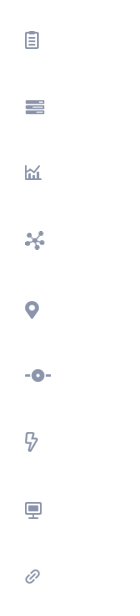
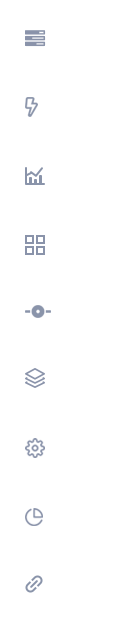
- 대메뉴 아이콘 class명 및 아이콘 이미지 변경

diff --git a/css/layout.css b/css/layout.css
@@ -309,24 +309,44 @@ html{height: 100%; background: #f3f3f3; overflow: auto;  overflow-y: scroll;}
 .gnb-menu > li > a:hover::before, .gnb-menu > li > a.on::before{display: inline-block; position: absolute; left:0; top:0; z-index: 1; content: ''; width:4px; height:100%; background-color: #00bfff; }
 .gnb-menu > li > a.on .ico-bul{background-position: -95px -25px;}
 .gnb-menu > li > a.on .ico-arr{background-position: -83px -100px;}
-.gnb-menu > li > a .ico-bul.ico1{ background-position: -25px -31px;}
-.gnb-menu > li > a:hover .ico-bul.ico1, .gnb-menu > li > a.on .ico-bul.ico1{ background-position: -89px -31px;}
-.gnb-menu > li > a .ico-bul.ico2{position: absolute; left:19px; top:22px; background-position: -25px -100px;}
-.gnb-menu > li > a:hover .ico-bul.ico2, .gnb-menu > li > a.on .ico-bul.ico2{ background-position: -89px -100px;}
-.gnb-menu > li > a .ico-bul.ico3{ background-position: -25px -165px;}
-.gnb-menu > li > a:hover .ico-bul.ico3, .gnb-menu > li > a.on .ico-bul.ico3{ background-position: -89px -165px;}
-.gnb-menu > li > a .ico-bul.ico4{ background-position: -25px -231px;}
-.gnb-menu > li > a:hover .ico-bul.ico4, .gnb-menu > li > a.on .ico-bul.ico4{ background-position: -89px -231px;}
-.gnb-menu > li > a .ico-bul.ico5{ background-position: -25px -301px;}
-.gnb-menu > li > a:hover .ico-bul.ico5, .gnb-menu > li > a.on .ico-bul.ico5{ background-position: -89px -301px;}
-.gnb-menu > li > a .ico-bul.ico6{position: absolute; left:13px; top:22px; background-position: -25px -369px;}
-.gnb-menu > li > a:hover .ico-bul.ico6, .gnb-menu > li > a.on .ico-bul.ico6{ background-position: -89px -369px;}
-.gnb-menu > li > a .ico-bul.ico7{ background-position: -25px -432px;}
-.gnb-menu > li > a:hover .ico-bul.ico7, .gnb-menu > li > a.on .ico-bul.ico7{ background-position: -89px -432px;}
-.gnb-menu > li > a .ico-bul.ico8{ background-position: -25px -502px;}
-.gnb-menu > li > a:hover .ico-bul.ico8, .gnb-menu > li > a.on .ico-bul.ico8{ background-position: -89px -502px;}
-.gnb-menu > li > a .ico-bul.ico9{ background-position: -25px -569px;}
-.gnb-menu > li > a:hover .ico-bul.ico9, .gnb-menu > li > a.on .ico-bul.ico9{ background-position: -89px -569px;}
+
+/*-- 대메뉴 아이콘 명 및 아이콘 이미지 변경 190715 --*/
+/*대메뉴 아이콘 1 (서버 가상화: ico_iaas)*/
+.gnb-menu > li > a .ico-bul.ico_iaas{ background-position: -25px -30px;}
+.gnb-menu > li > a:hover .ico-bul.ico_iaas, .gnb-menu > li > a.on .ico-bul.ico_iaas{ background-position: -95px -30px;}
+
+/*대메뉴 아이콘 2 (표준 App개발: ico_paas)*/
+.gnb-menu > li > a .ico-bul.ico_paas{position: absolute; left:19px; top:22px; background-position: -25px -97px;}
+.gnb-menu > li > a:hover .ico-bul.ico_paas, .gnb-menu > li > a.on .ico-bul.ico_paas{ background-position: -95px -97px;}
+
+/*대메뉴 아이콘 3 (데이터 분석: ico_ai)*/
+.gnb-menu > li > a .ico-bul.ico_ai{ background-position: -25px -167px;}
+.gnb-menu > li > a:hover .ico-bul.ico_ai, .gnb-menu > li > a.on .ico-bul.ico_ai{ background-position: -95px -167px;}
+
+/*대메뉴 아이콘 4 (SW 개발환경: ico_iaas)*/
+.gnb-menu > li > a .ico-bul.ico_frwk{ background-position: -25px -235px;}
+.gnb-menu > li > a:hover .ico-bul.ico_frwk, .gnb-menu > li > a.on .ico-bul.ico_frwk{ background-position: -95px -235px;}
+
+/*대메뉴 아이콘 5 (API 게이트웨이: ico_apgw)*/
+.gnb-menu > li > a .ico-bul.ico_apgw{ background-position: -25px -305px;}
+.gnb-menu > li > a:hover .ico-bul.ico_apgw, .gnb-menu > li > a.on .ico-bul.ico_apgw{ background-position: -89px -305px;}
+
+/*대메뉴 아이콘 6 (데이터 서비스: ico_daas)*/
+.gnb-menu > li > a .ico-bul.ico_daas{position: absolute; left:13px; top:22px; background-position: -25px -368px;}
+.gnb-menu > li > a:hover .ico-bul.ico_daas, .gnb-menu > li > a.on .ico-bul.ico_daas{ background-position: -95px -368px;}
+
+/*대메뉴 아이콘 7 (Back-end 서비스: ico_baas)*/
+.gnb-menu > li > a .ico-bul.ico_baas{ background-position: -25px -438px;}
+.gnb-menu > li > a:hover .ico-bul.ico_baas, .gnb-menu > li > a.on .ico-bul.ico_baas{ background-position: -95px -438px;}
+
+/*대메뉴 아이콘 8 (시각화 개발: ico_vdev)*/
+.gnb-menu > li > a .ico-bul.ico_vdev{ background-position: -25px -508px;}
+.gnb-menu > li > a:hover .ico-bul.ico_vdev, .gnb-menu > li > a.on .ico-bul.ico_vdev{ background-position: -95px -508px;}
+
+/*대메뉴 아이콘 9 (기타서비스: ico_etc)*/
+.gnb-menu > li > a .ico-bul.ico_etc{ background-position: -25px -575px;}
+.gnb-menu > li > a:hover .ico-bul.ico_etc, .gnb-menu > li > a.on .ico-bul.ico_etc{ background-position: -95px -575px;}
+
 
 /*메뉴 2depth*/
 .gnb-menu > li > ul {padding:15px 10px 15px 30px;}
